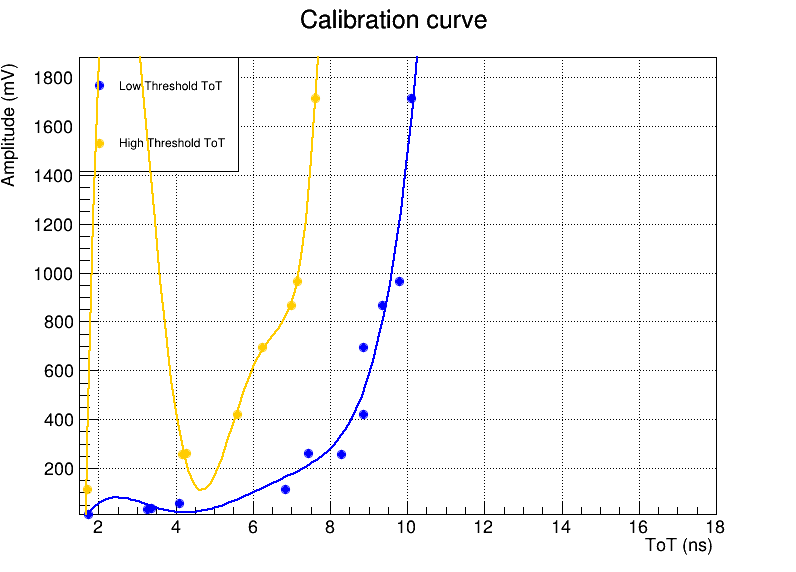
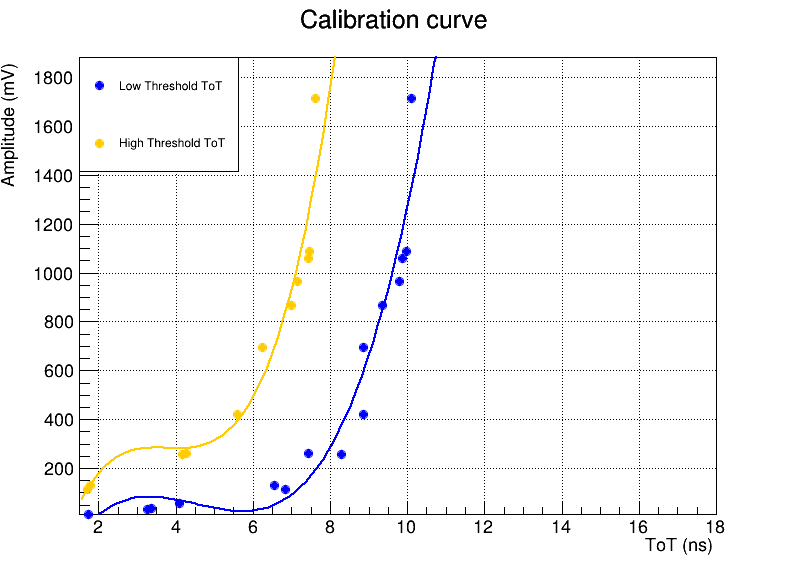
new commit

diff --git a/time_distribution_graph.C b/time_distribution_graph.C
@@ -216,7 +216,8 @@ void processFile(const std::string& filename, std::vector<double>& N, std::vecto
 
 
 int main() {
-  std::vector<std::string> filenames = { "T_smear_1.txt","T_smear_10.txt","T_smear_2.txt","T_smear_3.txt","T_smear_5.txt", "T_smear_6.txt", "T_smear_9.txt", "T_smear_14.txt", "T_smear_15.txt","T_smear_16.txt" ,"T_smear_12392.txt","T_smear_119.txt", "T_smear_16573.txt","T_smear_31027.txt","T_smear_54376.txt","T_smear_71004.txt"};
+  std::vector<std::string> filenames = { "T_smear_1.txt","T_smear_10.txt","T_smear_2.txt","T_smear_3.txt","T_smear_5.txt", "T_smear_6.txt", "T_smear_9.txt", "T_smear_14.txt", "T_smear_15.txt","T_smear_16.txt" ,"T_smear_12392.txt","T_smear_119.txt", "T_smear_16573.txt","T_smear_31027.txt","T_smear_54376.txt","T_smear_71004.txt","T_smear_24044_1000.txt","T_smear_26539_2000.txt","T_smear_1000.txt","T_smear_100.txt"
+};
 
 
     std::vector<double> N;
@@ -281,8 +282,8 @@ legend->AddEntry(gr_high, "High Threshold ToT", "p");
 legend->Draw();
 
 // Esegui il fitting dei dati
-TF1 *fit_low = new TF1("fit_low","pol5", 0, 16); // Fitting con un polinomio di terzo grado
-TF1 *fit_high = new TF1("fit_high", "pol5", 0, 16);
+TF1 *fit_low = new TF1("fit_low","pol3", 0, 16); // Fitting con un polinomio di terzo grado
+TF1 *fit_high = new TF1("fit_high", "pol3", 0, 16);
 
 gr_low->Fit(fit_low, "R");
 gr_high->Fit(fit_high, "R");
